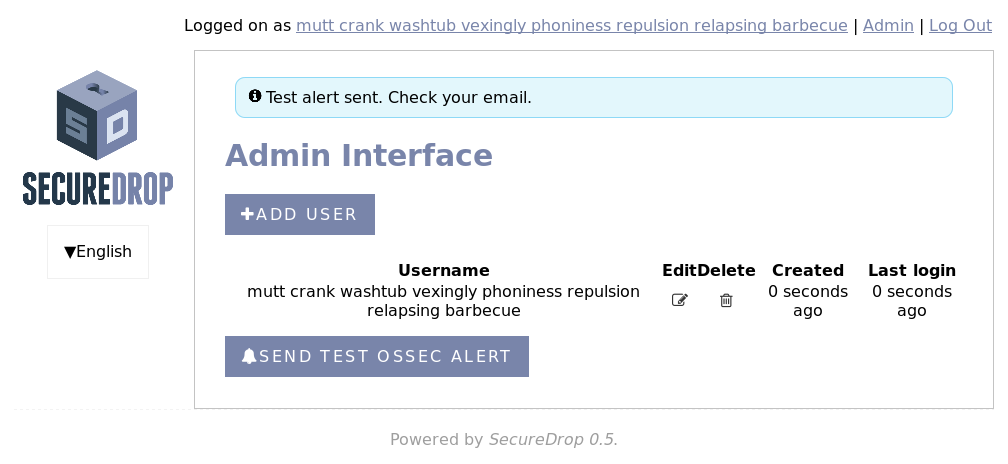
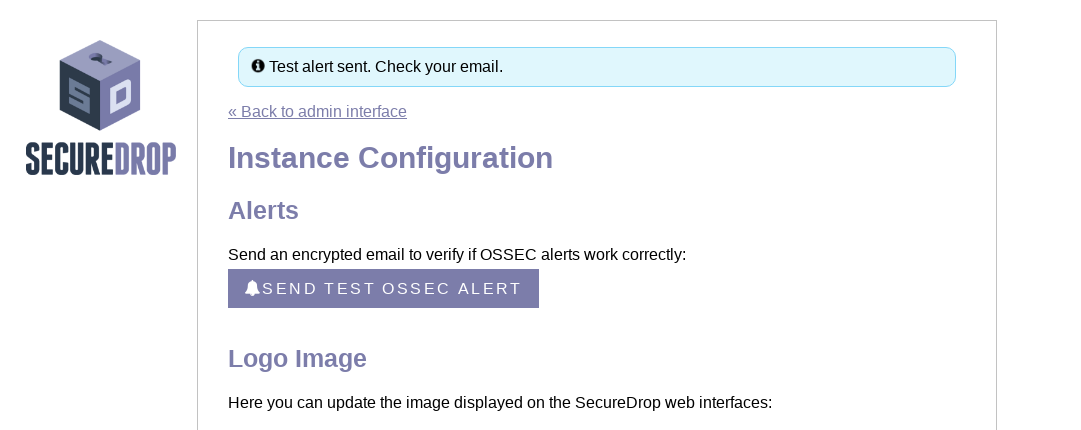
Docs: Fixes #2832 updates screenshots and text for admin

diff --git a/docs/admin.rst b/docs/admin.rst
@@ -74,8 +74,8 @@ for more information on common OSSEC alerts.
     examining and redacting any sensitive information.
 
 .. note:: You can send a test OSSEC alert to verify OSSEC and your email configuration
-          is working properly through the *Admin Interface* by clicking **Send
-          Test OSSEC Alert**:
+          is working properly through the *Instance Config* in the *Admin Interface* by
+          clicking **Send Test OSSEC Alert**:
 
           |Test Alert|
 
@@ -317,7 +317,7 @@ Updating Logo Image
 
 You can update the system logo shown on the web interfaces of your SecureDrop
 instance via the Admin Interface. We recommend a size of ``500px x 450px``.
-Simply click the **Update Instance Config** button:
+Simply click the **Instance Config** button:
 
 |System Config Page|
 
